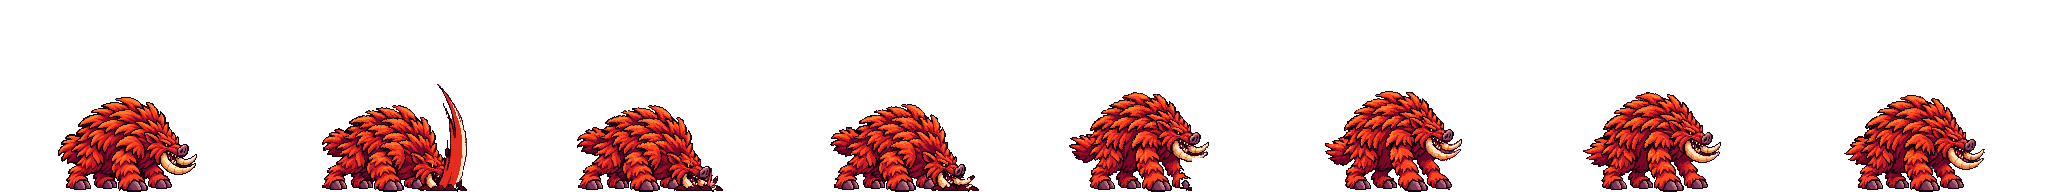
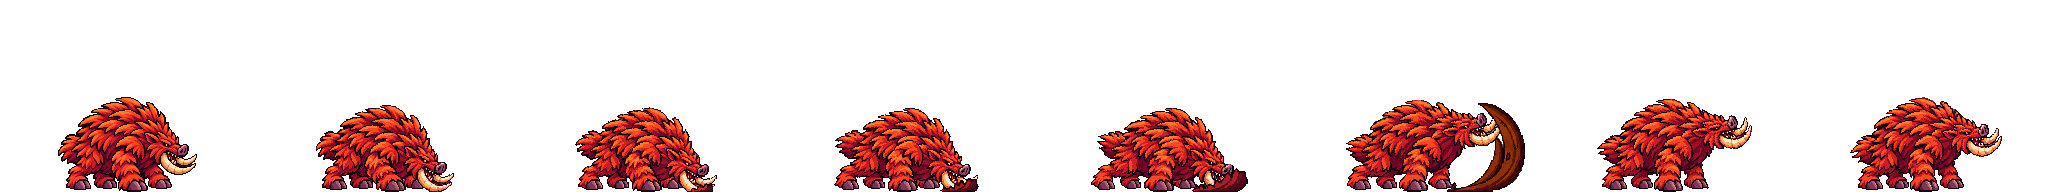
Redo Kaiban Stage 1 ranged as a tusk scoop that flings debris up and forward
He plows his tusks down and forward into the street, then wrenches his head
up so the debris launches into the blast zone. Impact frame 5 marks the
fling for the shotgun spread. Loose dirt erased (the game draws the
projectiles); the attached dirt crescent stays on the launch frame.

Claude-Session: https://claude.ai/code/session_01SJ9dCyUAV88VmbocnAb5Gv

diff --git a/src/presentation.ts b/src/presentation.ts
@@ -124,10 +124,11 @@ export const SPRITES:Record<string,Form&{stages?:Record<number,Form>}>={
   // (rear 0-4, slam 6-9,11,13-15); timing matches Mogurodon's heavy. The reared-back strike frames tip the head up, so they have no eye.
   heavyRear:{src:'assets/kaiban-s1-heavy-rear.png',frames:5,fps:20,once:true,...KB1_NATIVE},heavyHold:{src:'assets/kaiban-s1-heavy-hold.png',frames:4,fps:10,...KB1_NATIVE},
   heavySlam:{src:'assets/kaiban-s1-heavy-slam.png',frames:8,fps:16,once:true,...KB1_NATIVE},
-  // Ranged (debris shotgun): snaps the tusks into the street (slash arc on frame 1, as the shot fires on the key press), heaves up with
-  // the recoil and settles. PixelLab's debris is erased (the game draws the projectiles); frame 4's ground burst was cut off the near
-  // leg and its outline redrawn. No crouched version until Kaiban has crouch art, so a crouched shot falls back to idle.
-  rangedStand:{src:'assets/kaiban-s1-ranged-stand.png',frames:8,fps:18,once:true,...KB1_NATIVE}}},
+  // Ranged (debris shotgun): plows both tusks down and forward into the street (frames 1-4, dirt clod at the tusks), then wrenches the
+  // head up so the tusks fling the debris up and forward (impact frame 5, with the dirt crescent), and settles. Loose dirt erased: the
+  // game draws the projectiles. The upswing frames tip the head up, so they have no eye. No crouched version until Kaiban has crouch
+  // art, so a crouched shot falls back to idle.
+  rangedStand:{src:'assets/kaiban-s1-ranged-stand.png',frames:8,fps:18,once:true,impact:5,...KB1_NATIVE}}},
 };
 // Resolves the form drawn for a kaiju at a stage (stage omitted = base form).
 function form(name:string,stage?:number):Form|undefined{const s=SPRITES[name];return s&&((stage&&s.stages?.[stage])||s);}
